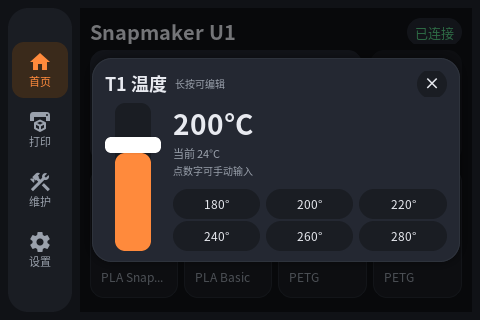
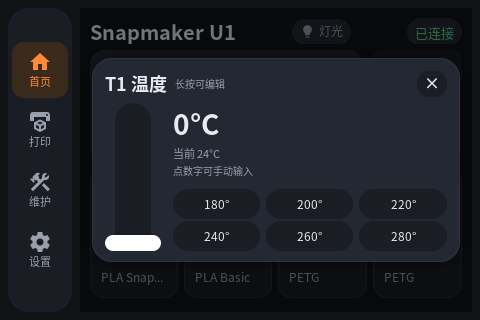
Polish slider corners and require DHCP before saving Wi-Fi
- temperature slider track/fill now use a full capsule radius (18px on a
  36px bar) and the knob is a pill (8px on 16px); bed overlay at 55C no
  longer shows squarish ends
- Wi-Fi connect only counts as success after an IP is assigned; an AP
  that associates but never sends DHCP is treated as failure and the
  previous config is restored
- UI version 1.4.1

Changed region(s): [[0.2188, 0.3438, 0.5312, 0.7812], [0.625, 0.0625, 0.7188, 0.125]]

diff --git a/src/ui.cpp b/src/ui.cpp
@@ -1133,7 +1133,7 @@ void build_temp_page(lv_obj_t* screen) {
 
     lv_obj_t* track = mk_obj(sl);
     lv_obj_set_size(track, 36, LV_PCT(100));
-    lv_obj_set_style_radius(track, 10, 0);
+    lv_obj_set_style_radius(track, 18, 0);
     lv_obj_set_style_bg_color(track, theme::c(theme::SURFACE), 0);
     lv_obj_set_style_bg_opa(track, LV_OPA_COVER, 0);
     lv_obj_align(track, LV_ALIGN_CENTER, 0, 0);
@@ -1141,7 +1141,7 @@ void build_temp_page(lv_obj_t* screen) {
 
     R.tp_fill = mk_obj(sl);
     lv_obj_set_size(R.tp_fill, 36, 0);
-    lv_obj_set_style_radius(R.tp_fill, 10, 0);
+    lv_obj_set_style_radius(R.tp_fill, 18, 0);
     lv_obj_set_style_bg_color(R.tp_fill, theme::c(theme::PRIMARY), 0);
     lv_obj_set_style_bg_opa(R.tp_fill, LV_OPA_COVER, 0);
     lv_obj_align(R.tp_fill, LV_ALIGN_BOTTOM_MID, 0, 0);
@@ -1149,7 +1149,7 @@ void build_temp_page(lv_obj_t* screen) {
 
     R.tp_knob = mk_obj(sl);
     lv_obj_set_size(R.tp_knob, 56, 16);
-    lv_obj_set_style_radius(R.tp_knob, 6, 0);
+    lv_obj_set_style_radius(R.tp_knob, 8, 0);
     lv_obj_set_style_bg_color(R.tp_knob, theme::c(0xFFFFFF), 0);
     lv_obj_set_style_bg_opa(R.tp_knob, LV_OPA_COVER, 0);
     lv_obj_set_style_shadow_width(R.tp_knob, 8, 0);
@@ -2495,7 +2495,7 @@ void build_settings(lv_obj_t* p) {
     lv_obj_align(R.dev_nozzle, LV_ALIGN_TOP_LEFT, 0, 46);
     R.gui_line = mk_label(c2, "原厂 GUI 偏好 · 自动映射 —", 11, false, theme::MUTED);
     lv_obj_align(R.gui_line, LV_ALIGN_TOP_LEFT, 0, 68);
-    lv_obj_t* ver = mk_label(c2, "skreeu1 1.4.0 · LVGL + FreeType · 480×320", 11, false, 0x5A616B);
+    lv_obj_t* ver = mk_label(c2, "skreeu1 1.4.1 · LVGL + FreeType · 480×320", 11, false, 0x5A616B);
     lv_obj_align(ver, LV_ALIGN_BOTTOM_LEFT, 0, 0);
 
     // 打印偏好（Klipper print_task_config）

diff --git a/src/wifi.cpp b/src/wifi.cpp
@@ -405,8 +405,9 @@ void Wifi::do_connect(std::string ssid, std::string password, bool sae) {
     run_cmd({wpa_cli_, "-i", iface_, "select_network", id}, 5000);
 
     bool ok = false;
+    bool associated = false;
     std::string ip;
-    for (int i = 0; i < 40; i++) {   // 最多等 20 秒
+    for (int i = 0; i < 60; i++) {   // 最多等 30 秒（含 DHCP）
         std::this_thread::sleep_for(std::chrono::milliseconds(500));
         do_status();
         WifiSnapshot s;
@@ -414,10 +415,13 @@ void Wifi::do_connect(std::string ssid, std::string password, bool sae) {
             std::lock_guard<std::mutex> lk(snap_mu_);
             s = snap_;
         }
-        if (s.connected) {
+        if (s.connected) associated = true;
+        // 必须真的拿到 IP 才算成功：有些 AP 能关联但不发 DHCP，
+        // 这时候如果保存配置，打印机就会从这个网络里失联。
+        if (s.connected && !s.ip.empty()) {
             ok = true;
             ip = s.ip;
-            if (!ip.empty()) break;
+            break;
         }
     }
 
@@ -433,7 +437,8 @@ void Wifi::do_connect(std::string ssid, std::string password, bool sae) {
         {
             std::lock_guard<std::mutex> lk(snap_mu_);
             snap_.connecting = false;
-            snap_.error = "连接失败：密码错误或信号太弱";
+            snap_.error = associated ? "已连上但没拿到 IP（DHCP 失败），已恢复原网络"
+                                     : "连接失败：密码错误或信号太弱";
         }
         do_status();
         return;

diff --git a/README.md b/README.md
@@ -221,8 +221,9 @@ DRM 显示控制器保持打开。
 实现上直接调用打印机自带的 `wpa_cli` / `wpa_supplicant`（和原厂 GUI 同一套配置，
 `/home/lava/printer_data/gui/wpa_supplicant.conf`），DHCP 继续由系统的 `dhcpcd` 处理。
 
-连接新网络前会先备份配置，**只有确认连上才写盘**；失败时会恢复备份并
+连接新网络前会先备份配置，**只有确认连上并且拿到 IP 才写盘**；失败时会恢复备份并
 `reconfigure`，保证不会把原来的网络写坏、重启后还能自动连回去。
+（有些 AP 能关联但不发 DHCP，这种情况也会按失败处理。）
 WPA3-SAE 会自动识别；过渡模式（WPA2-PSK+SAE）用 WPA2-PSK 连接。
 接口默认 `wlan0`，可用 `SKREEU1_WIFI_IF` 覆盖。
 
